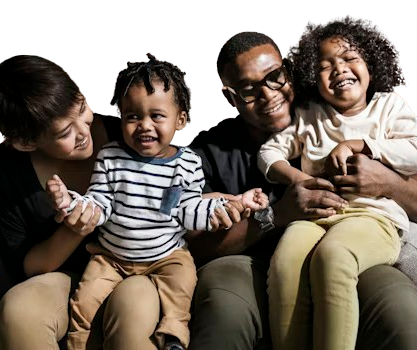
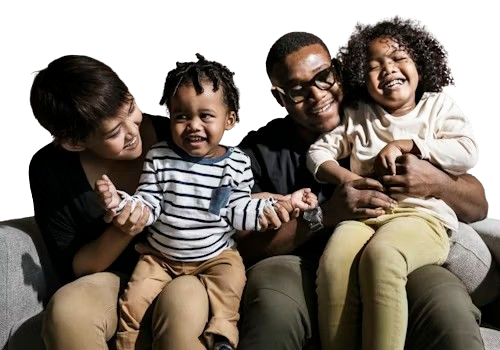
update homepage

diff --git a/family-tree/app/page.module.css b/family-tree/app/page.module.css
@@ -29,7 +29,7 @@
 .heroBgImage img{ display: none;
   width: 100%;
   height: 100%;
-  object-fit: contain;
+  object-fit: cover;
   object-position: center;
 }
 .hero h1 { 
@@ -300,7 +300,7 @@
     flex-direction: column;
     height: 75vh;
     text-align: center;
-    background: url('../public/images/family15.png') center no-repeat;
+    background: url('../public/images/family019.png') center no-repeat;
     background-size: contain;
   }
   .overlay{
@@ -376,7 +376,7 @@
     flex-direction: column;
     height: 83vh;
     text-align: center;
-    background: url('../public/images/family15.png') center no-repeat;
+    background: url('../public/images/family019.png') center no-repeat;
     background-size: 400px;
     margin-top: -1px;
   }
